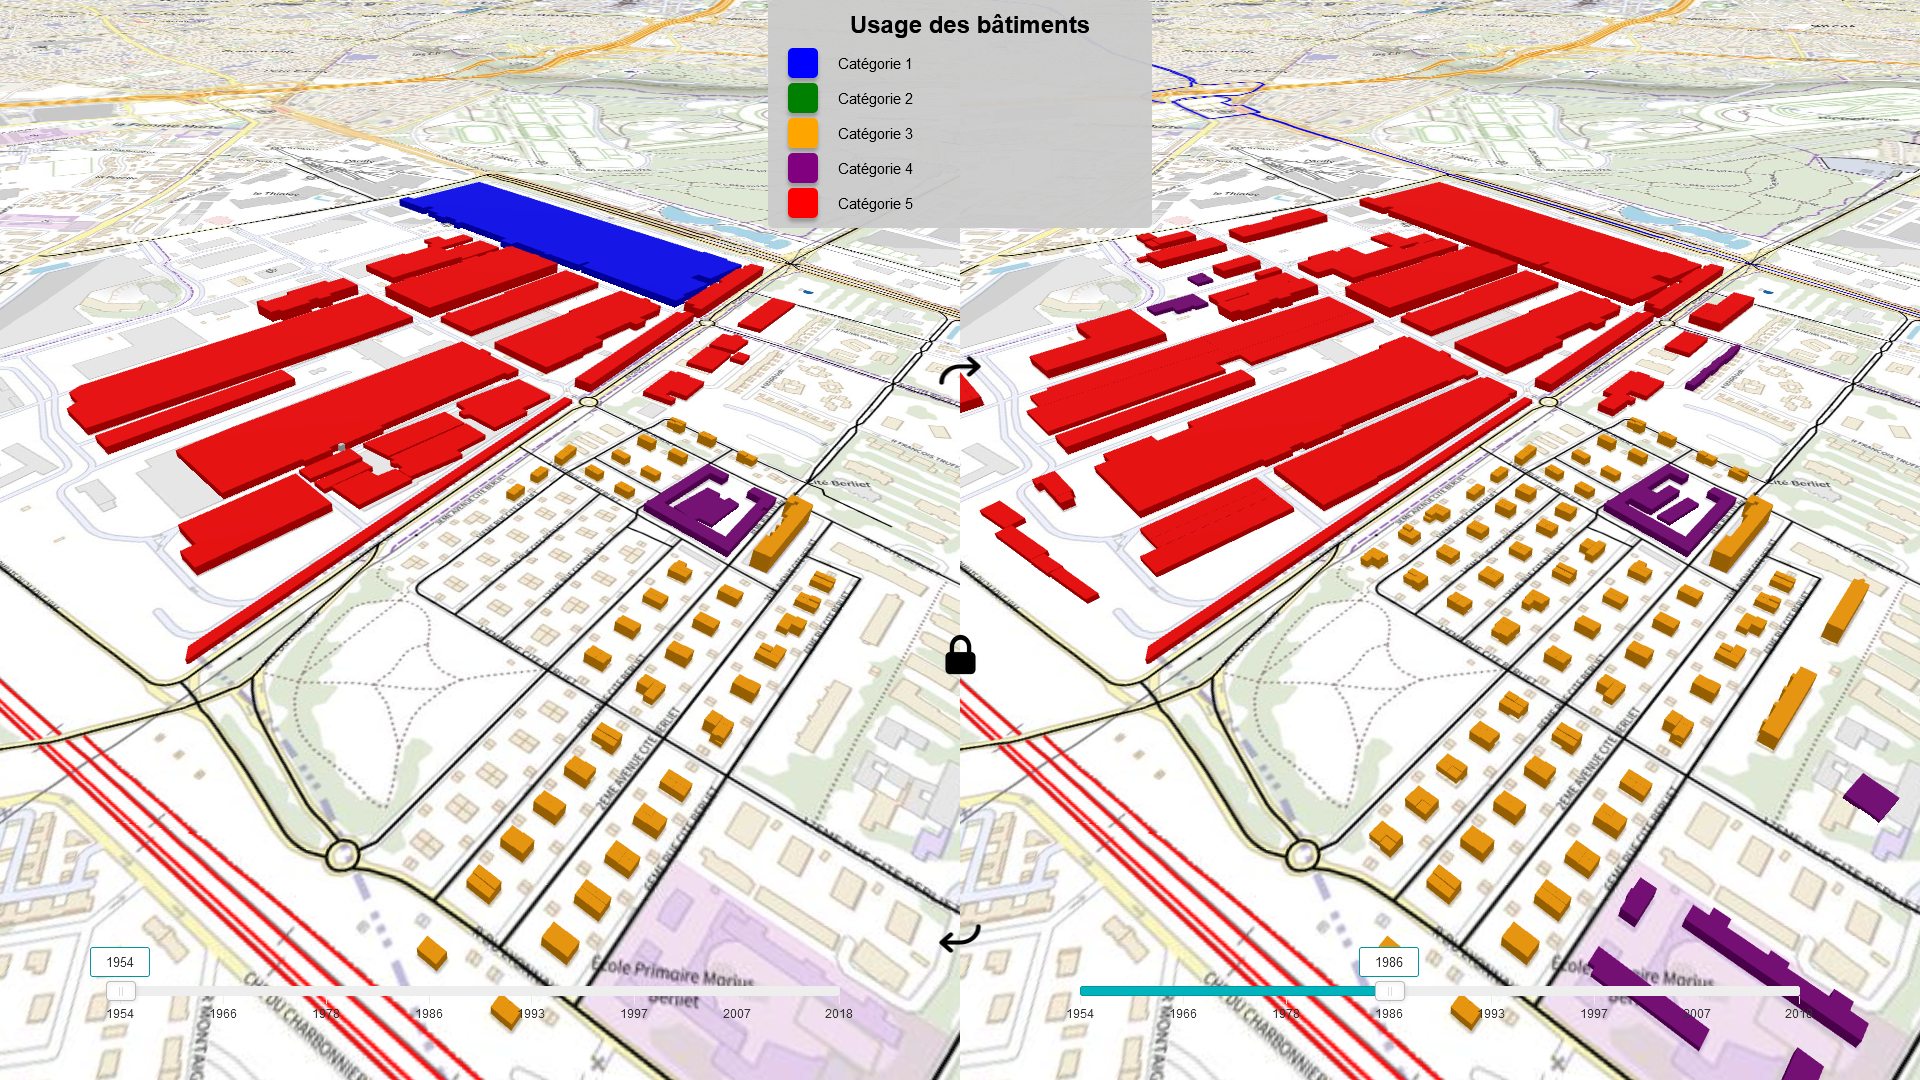
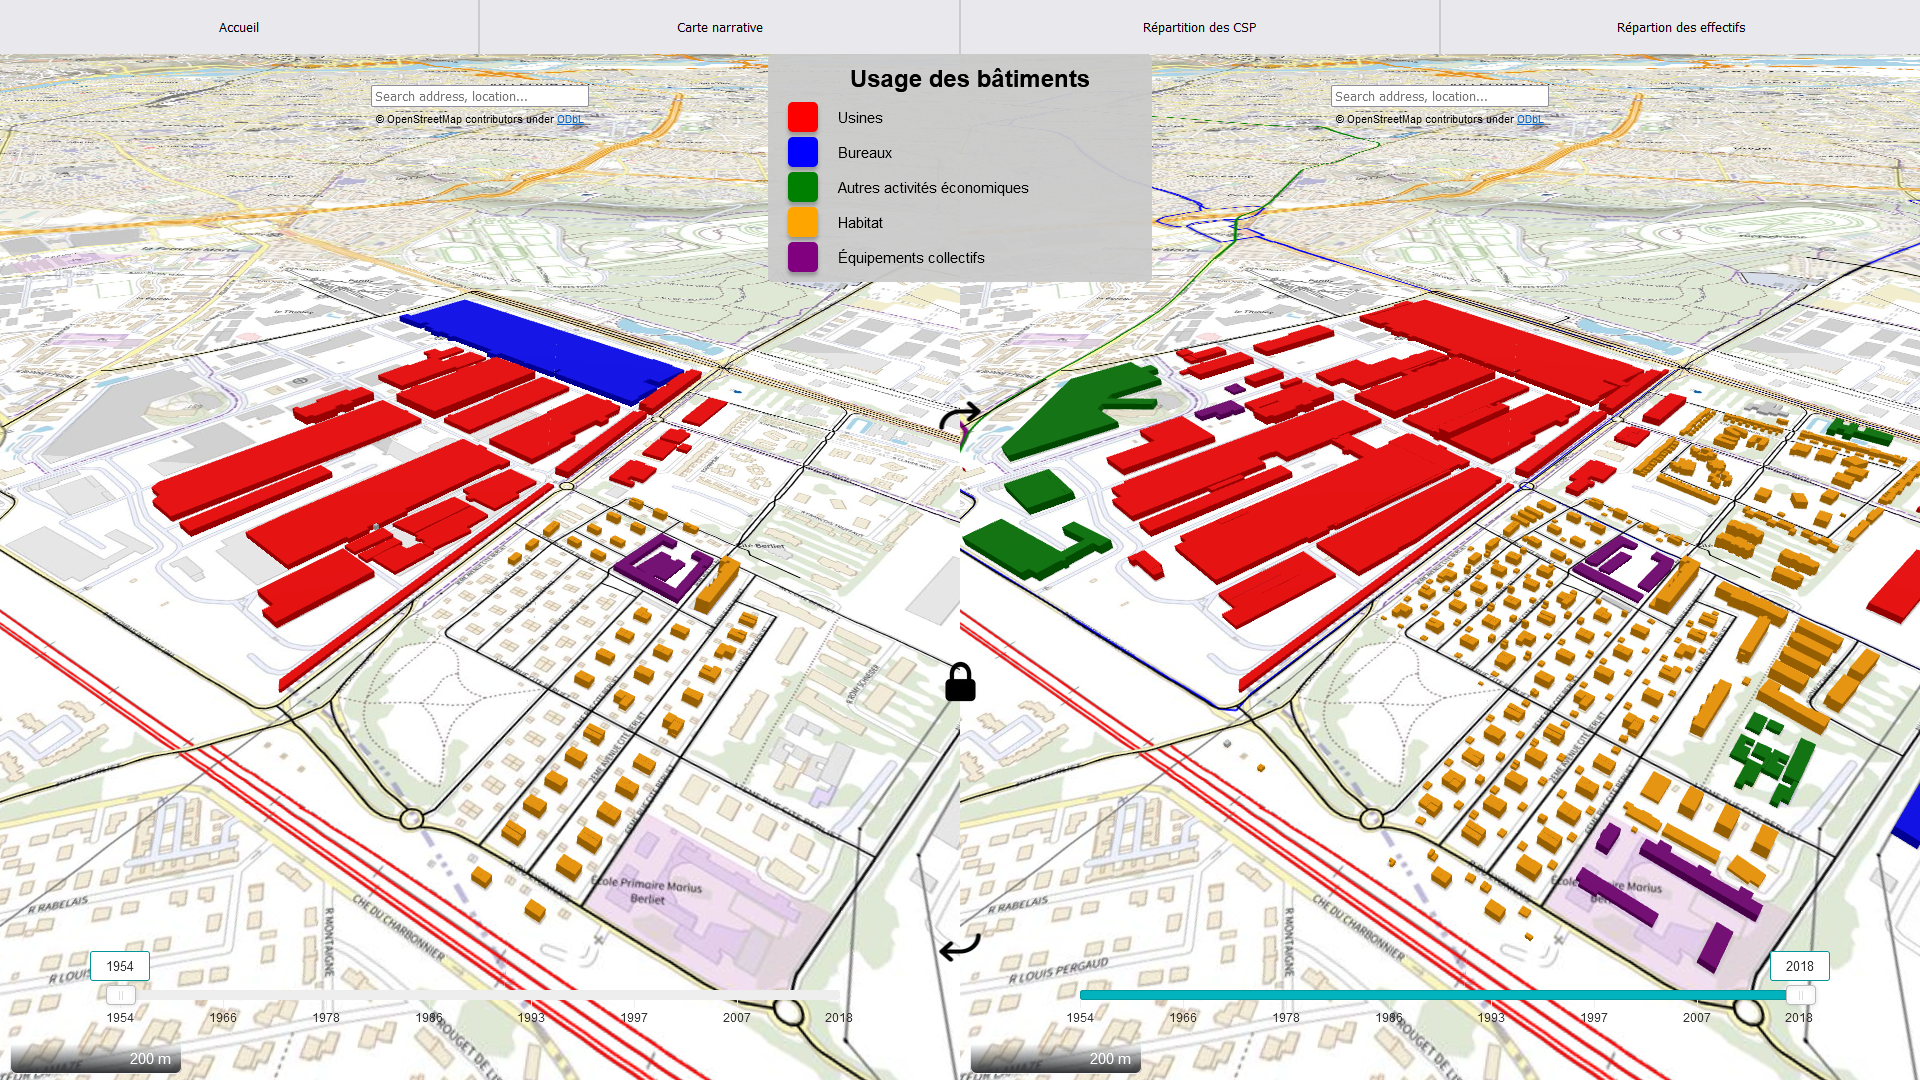
fix: categories names in bat example

diff --git a/src/bat.html b/src/bat.html
@@ -37,24 +37,24 @@
           <h1>Usage des bâtiments</h1>
           <div class="captions">
             <div class="caption">
+              <div class="caption_square" style="background: red"></div>
+              <p class="caption_text">Usines</p>
+            </div>
+            <div class="caption">
               <div class="caption_square" style="background: blue"></div>
-              <p class="caption_text">Catégorie 1</p>
+              <p class="caption_text">Bureaux</p>
             </div>
             <div class="caption">
               <div class="caption_square" style="background: green"></div>
-              <p class="caption_text">Catégorie 2</p>
+              <p class="caption_text">Autres activités économiques</p>
             </div>
             <div class="caption">
               <div class="caption_square" style="background: orange"></div>
-              <p class="caption_text">Catégorie 3</p>
+              <p class="caption_text">Habitat</p>
             </div>
             <div class="caption">
               <div class="caption_square" style="background: purple"></div>
-              <p class="caption_text">Catégorie 4</p>
-            </div>
-            <div class="caption">
-              <div class="caption_square" style="background: red"></div>
-              <p class="caption_text">Catégorie 5</p>
+              <p class="caption_text">Équipements collectifs</p>
             </div>
           </div>
         </div>
